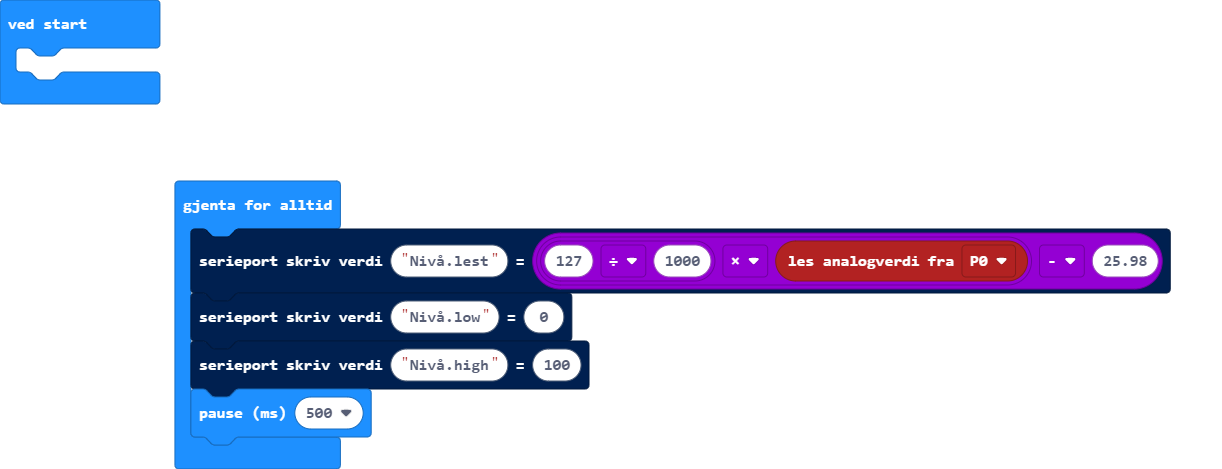
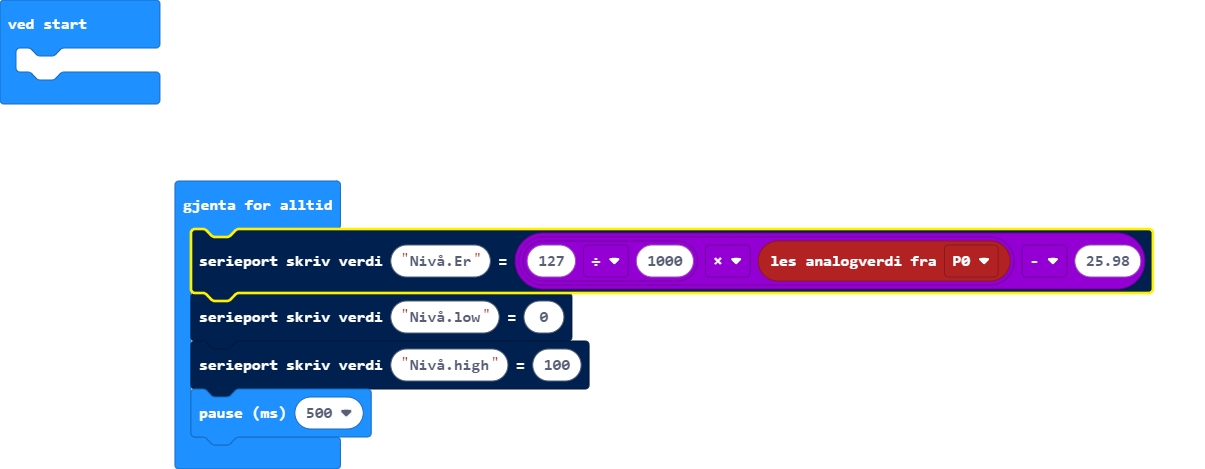
Update main.blocks, main.ts

diff --git a/main.ts b/main.ts
@@ -1,5 +1,5 @@
 basic.forever(function () {
-    serial.writeValue("Nivå.lest", 127 / 1000 * pins.analogReadPin(AnalogPin.P0) - 25.98)
+    serial.writeValue("Nivå.Er", 127 / 1000 * pins.analogReadPin(AnalogPin.P0) - 25.98)
     serial.writeValue("Nivå.low", 0)
     serial.writeValue("Nivå.high", 100)
     basic.pause(500)
